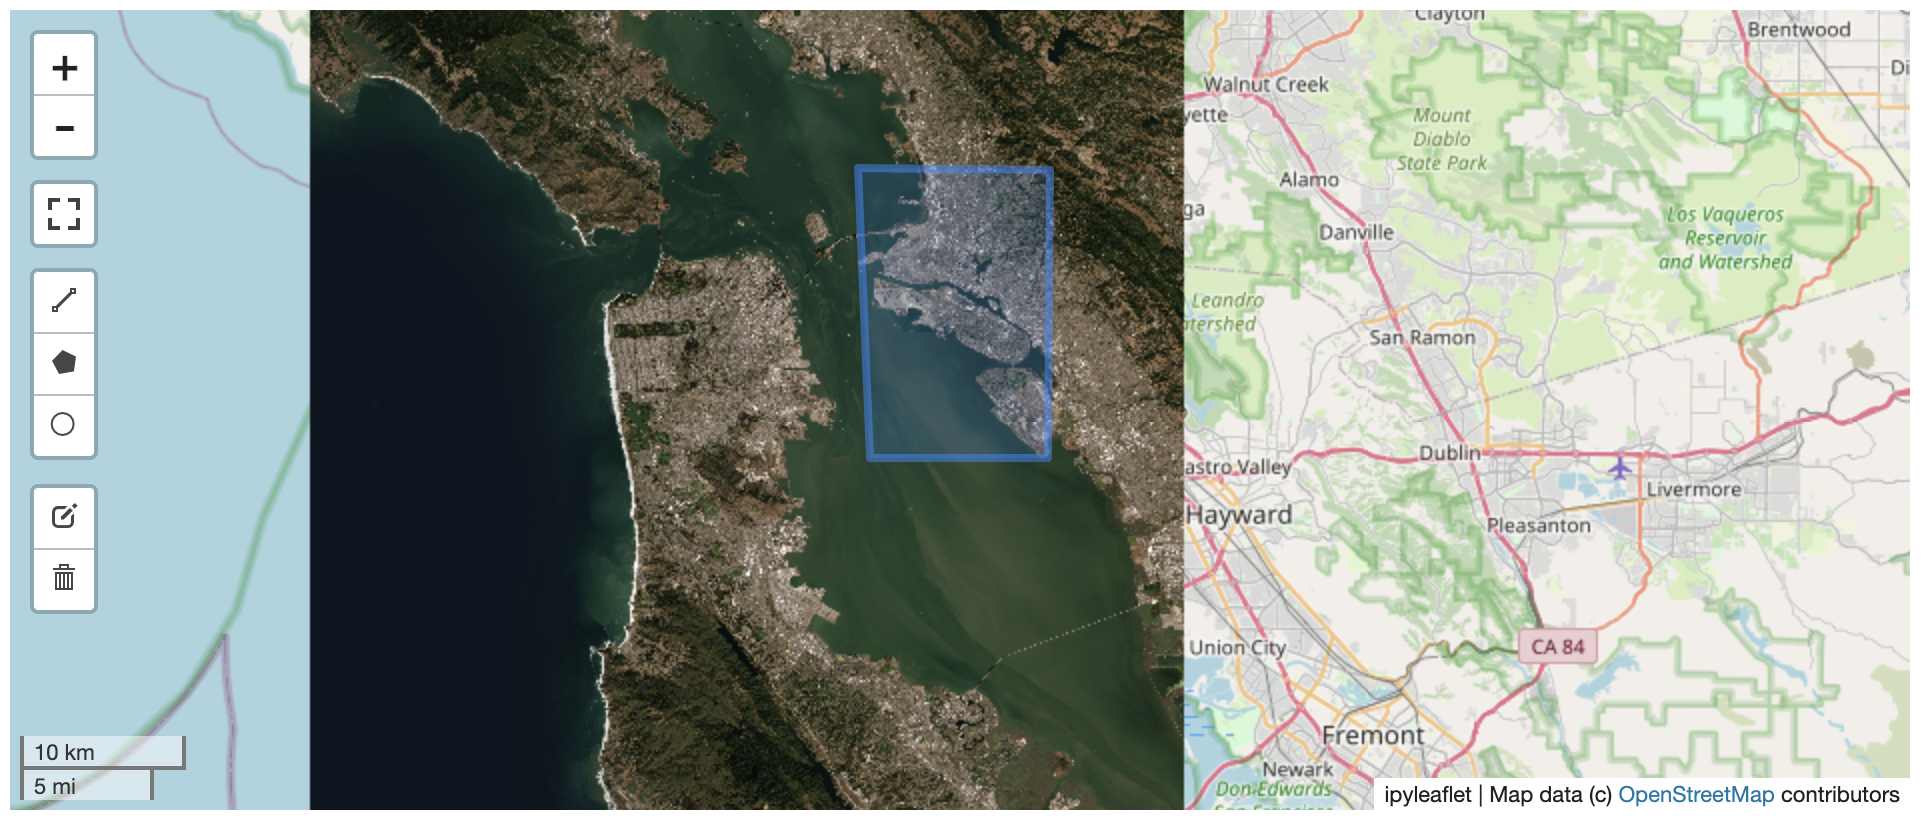
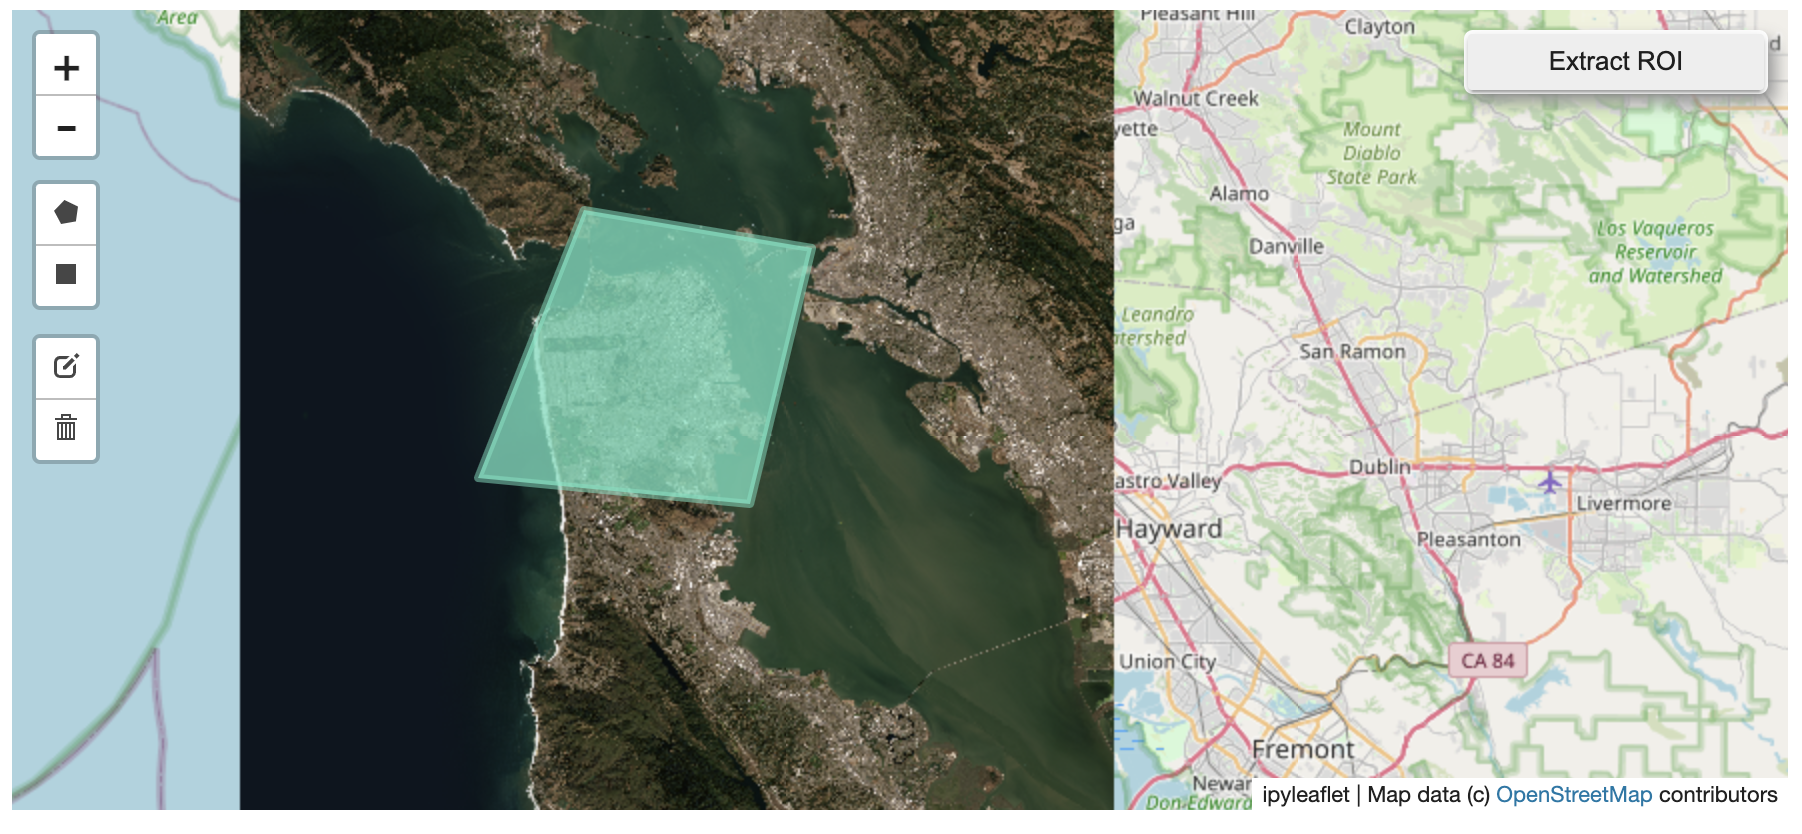
Add new get_leaflet_roi_control widgets

diff --git a/tileserver/leaflet.py b/tileserver/leaflet.py
@@ -1,3 +1,5 @@
+import logging
+import os
 import pathlib
 from typing import Union
 
@@ -5,6 +7,8 @@ import requests
 
 from tileserver.server import TileClient
 from tileserver.utilities import is_valid_palette
+
+logger = logging.getLogger(__name__)
 
 
 def get_leaflet_tile_layer(
@@ -60,8 +64,8 @@ def get_leaflet_tile_layer(
     # Safely import ipyleaflet
     try:
         from ipyleaflet import TileLayer
-    except ImportError:
-        raise ImportError("Please install `ipyleaflet` and `jupyter`.")
+    except ImportError as e:
+        raise ImportError(f"Please install `ipyleaflet`: {e}")
 
     # First handle query parameters to check for errors
     params = {}
@@ -106,3 +110,93 @@ def get_leaflet_tile_layer(
         # HACK: Prevent the server from being garbage collected
         tile_layer.tile_server = source
     return tile_layer
+
+
+def get_leaflet_roi_control(
+    tile_client: TileClient,
+    button_position: str = "topright",
+    output_directory: pathlib.Path = ".",
+    debug: bool = False,
+):
+    """Generate an ipyleaflet DrawControl and WidgetControl to add to your map for ROI extraction.
+
+    Parameters
+    ----------
+    button_position : str
+        The button position of the WidgetControl.
+    output_directory : pathlib.Path
+        The directory to save the ROIs. Defaults to working directory.
+    debug : bool
+        Return a `widgets.Output` to debug the ROI extraction callback.
+
+    Returns
+    -------
+    tuple(ipyleaflet.DrawControl, ipyleaflet.WidgetControl)
+
+    """
+    # Safely import ipyleaflet
+    try:
+        import ipywidgets as widgets
+        from ipyleaflet import DrawControl, WidgetControl
+        from shapely.geometry import Polygon
+    except ImportError as e:
+        raise ImportError(f"Please install `ipyleaflet` and `shapely`: {e}")
+    draw_control = DrawControl()
+    # Disable polyline and circle
+    draw_control.polyline = {}
+    draw_control.circlemarker = {}
+    draw_control.polygon = {
+        "shapeOptions": {
+            "fillColor": "#6be5c3",
+            "color": "#6be5c3",
+            "fillOpacity": 0.75,
+        },
+    }
+    draw_control.rectangle = {
+        "shapeOptions": {
+            "fillColor": "#fca45d",
+            "color": "#fca45d",
+            "fillOpacity": 0.75,
+        }
+    }
+
+    # Set up the "Extract ROI" button
+    debug_view = widgets.Output(layout={"border": "1px solid black"})
+
+    @debug_view.capture(clear_output=False)
+    def on_button_clicked(b):
+        logger.error(f"\non_button_clicked {button_position}")
+        # Inspect `draw_control.data` to get the ROI
+        if not draw_control.data:
+            # No ROI to extract
+            logger.error("No polygons on map to use.")
+            return
+        p = None
+        for poly in draw_control.data:
+            t = Polygon([tuple(l) for l in poly["geometry"]["coordinates"][0]])
+            if not p:
+                p = t
+            else:
+                p = p.union(t)
+        left, bottom, right, top = p.bounds
+        # Get filename in working directory
+        split = os.path.basename(tile_client.filename).split(".")
+        ext = split[-1]
+        basename = ".".join(split[:1])
+        output_path = pathlib.Path(output_directory).absolute()
+        output_path.mkdir(parents=True, exist_ok=True)
+        output_path = (
+            output_path / f"roi_{basename}_{left}_{right}_{bottom}_{top}.{ext}"
+        )
+        draw_control.output_path = output_path
+        logger.error(f"output_path: {output_path}")
+        roi_path = tile_client.extract_roi(
+            left, right, bottom, top, output_path=output_path
+        )
+
+    button = widgets.Button(description="Extract ROI")
+    button.on_click(on_button_clicked)
+    button_control = WidgetControl(widget=button, position=button_position)
+    if debug:
+        return draw_control, button_control, debug_view
+    return draw_control, button_control

diff --git a/tileserver/__init__.py b/tileserver/__init__.py
@@ -1,5 +1,6 @@
 from tileserver._version import __version__  # noqa
-from tileserver.leaflet import get_leaflet_tile_layer  # noqa
+from tileserver.leaflet import get_leaflet_roi_control  # noqa
+from tileserver.leaflet import get_leaflet_tile_layer
 from tileserver.report import Report  # noqa
 from tileserver.server import TileClient  # noqa
 from tileserver.utilities import get_cache_dir  # noqa

diff --git a/README.md b/README.md
@@ -129,57 +129,33 @@ m
 
 #### 🎯 Using `ipyleaflet` for ROI Extraction
 
+I have included the `get_leaflet_roi_control` utility to create some leaflet
+UI controls for extracting regions of interest from a tile client. You can
+use it as follows and then draw a polygon and click the "Extract ROI" button.
+
+The outputs are save in your working directory by default (next to the Jupyter notebook).
 
 ```py
-from tileserver import get_leaflet_tile_layer, TileClient
-from ipyleaflet import Map, ScaleControl, FullScreenControl, DrawControl
+from tileserver import get_leaflet_tile_layer, get_leaflet_roi_control, TileClient
+from ipyleaflet import Map
 
 # First, create a tile server from local raster file
 tile_client = TileClient('~/Desktop/TC_NG_SFBay_US_Geo.tif')
 
 # Create ipyleaflet tile layer from that server
 t = get_leaflet_tile_layer(tile_client)
+# Create ipyleaflet controls to extract an ROI
+draw_control, roi_control = get_leaflet_roi_control(tile_client)
 
-# Create ipyleaflet map, add layers, add draw control, display
+# Create ipyleaflet map, add layers, add controls, and display
 m = Map(center=(37.7249511580583, -122.27230466902257), zoom=9)
 m.add_layer(t)
-m.add_control(ScaleControl(position='bottomleft'))
-m.add_control(FullScreenControl())
-draw_control = DrawControl()
 m.add_control(draw_control)
+m.add_control(roi_control)
 m
 ```
 
 ![ipyleaflet-draw-roi](https://raw.githubusercontent.com/banesullivan/flask-tileserver/main/imgs/ipyleaflet-draw-roi.png)
-
-
-
-```py
-from shapely.geometry import Polygon
-
-# Inspect `draw_control.data` to get the ROI
-bbox = draw_control.data[0]
-p = Polygon([tuple(l) for l in bbox['geometry']['coordinates'][0]])
-left, bottom, right, top = p.bounds
-
-roi_path = tile_client.extract_roi(left, right, bottom, top)
-roi_path
-```
-
-```py
-r = get_leaflet_tile_layer(roi_path)
-
-m2 = Map(
-        center=(37.7249511580583, -122.27230466902257),
-        zoom=9,
-       )
-m2.add_layer(r)
-m2.add_control(ScaleControl(position='bottomleft'))
-m2.add_control(FullScreenControl())
-m2
-```
-
-![ipyleaflet-roi](https://raw.githubusercontent.com/banesullivan/flask-tileserver/main/imgs/ipyleaflet-roi.png)
 
 
 #### 🗺 Example Datasets
@@ -188,8 +164,8 @@ A few example datasets are included with `tileserver`. A particularly
 useful one has global elevation data which you can use to create high resolution Digital Elevation Models (DEMs) of a local region.
 
 ```py
-from tileserver import get_leaflet_tile_layer, examples
-from ipyleaflet import Map, DrawControl
+from tileserver import get_leaflet_tile_layer, get_leaflet_roi_control, examples
+from ipyleaflet import Map
 
 # Load example tile layer from publicly available DEM source
 tile_client = examples.get_elevation()
@@ -197,13 +173,16 @@ tile_client = examples.get_elevation()
 # Create ipyleaflet tile layer from that server
 t = get_leaflet_tile_layer(tile_client,
                            band=1, vmin=-500, vmax=5000,
-                           palette='mycarta.Cube1_19',
+                           palette='matplotlib.Plasma_6',
                            opacity=0.75)
+
+# Create ipyleaflet controls to extract an ROI
+draw_control, roi_control = get_leaflet_roi_control(tile_client)
 
 m = Map(zoom=2)
 m.add_layer(t)
-draw_control = DrawControl()
 m.add_control(draw_control)
+m.add_control(roi_control)
 m
 ```
 
@@ -219,17 +198,11 @@ I zoomed in over Golden, Colorado and drew a polygon of the extent of the DEM I 
 And perform the extraction:
 
 ```py
-from shapely.geometry import Polygon
 
-# Inspect `draw_control.data` to get the ROI
-bbox = draw_control.data[0]
-p = Polygon([tuple(l) for l in bbox['geometry']['coordinates'][0]])
-left, bottom, right, top = p.bounds
-
-roi_path = tile_client.extract_roi(left, right, bottom, top)
+roi_path = '...'  # Look in your working directory
 
 r = get_leaflet_tile_layer(roi_path, band=1,
-                           palette='mycarta.Cube1_19', opacity=0.75)
+                           palette='matplotlib.Plasma_6', opacity=0.75)
 
 m2 = Map(
         center=(39.763427033262175, -105.20614908076823),
